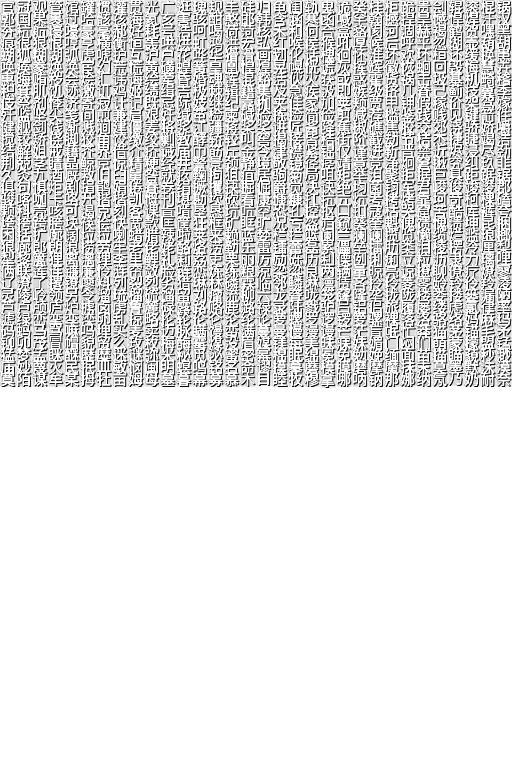
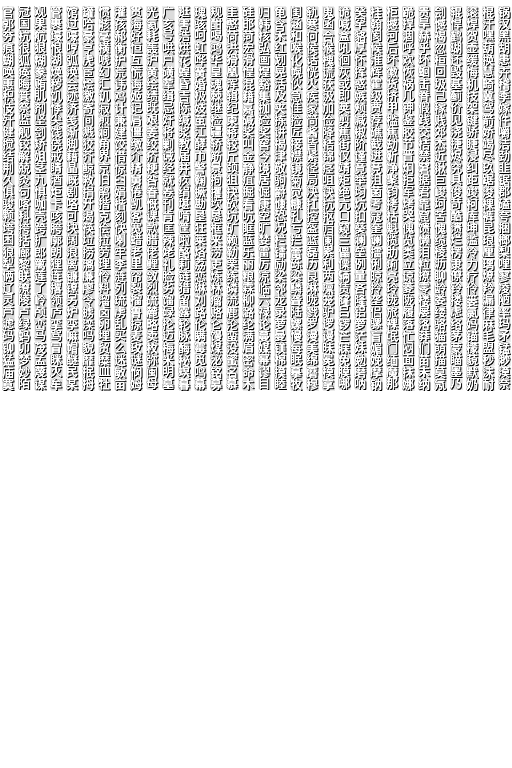
feat(fanyi): 字幕条字体缩小20%(--shrink 0.8, 字形格内居中)
用户反馈大字仍偏大, 要求再小20%。实现: generate_font_atlas.py 新增
--shrink 参数(默认1.0), 字形在格内等比缩小后居中(fit 15x23→12x18),
格子布局/四片切分/贴图逻辑全不变, 无乱字风险。
重新生成4页图集(3877字形) shrink=0.8, 游戏+仓库双写, 许可文件保留。
同时把字形从左上对齐改为格内居中(缩小后视觉更平衡)。

diff --git a/scripts/generate_font_atlas.py b/scripts/generate_font_atlas.py
@@ -104,7 +104,8 @@ def _load_font(font_path: str, face_index: int | str, size_px: int):
 
 
 def render_pages(font_path: str, face_index: int | str, pages: list[dict], *,
-                 tile_w: int, tile_h: int, out: Path, scale: int = 1) -> None:
+                 tile_w: int, tile_h: int, out: Path, scale: int = 1,
+                 shrink: float = 1.0) -> None:
     """逐页渲染 RGBA PNG: 白色字形 + 1px 黑影, 居中于格子。
 
     小网格适配: 以 2x 尺寸取字形蒙版, 裁紧 bbox 后等比缩到 (fit_w, fit_h)
@@ -113,11 +114,15 @@ def render_pages(font_path: str, face_index: int | str, pages: list[dict], *,
     scale=2(字幕条大字): 每字占 scale²=4 个连续网格位(行优先 TL,TR,BL,BR),
     字形渲染到 2*tile_w x 2*tile_h —— 汉字 16x24 像素, 可读性大增。
     要求 cols % (2*scale) == 0 保证不跨页行(64 列下每行 16 字, 列恒偶)。
+
+    shrink<1: 字形在格内等比缩小后居中(格子布局/四片切分/贴图逻辑全部不变,
+    只是字形变小留白) —— 字幕条字体“再小 20%”= --shrink 0.8。
     """
     from PIL import Image, ImageFont
 
     span = scale  # 每字边长(格)
-    fit_w, fit_h = tile_w * span - 1, tile_h * span - 1
+    fit_w, fit_h = int((tile_w * span - 1) * shrink), int((tile_h * span - 1) * shrink)
+    fit_w, fit_h = max(4, fit_w), max(4, fit_h)
     size_px = fit_h * 2  # 采样尺寸(再缩放, 抗锯齿更足)
     font = _load_font(font_path, face_index, size_px)
     for page in pages:
@@ -139,25 +144,31 @@ def render_pages(font_path: str, face_index: int | str, pages: list[dict], *,
             glyph = glyph.point(lambda v: min(255, int(v * 1.7) + 20))
             gx = (i * span % page["cols"]) * tile_w
             gy = (i * span // page["cols"]) * tile_h
+            # 格子内居中(shrink<1 时字形留白, 居中视觉更平衡; 四片边界不变)
+            ox = (tile_w * span - nw) // 2
+            oy = (tile_h * span - nh) // 2
             # 黑影(右下 1px)提对比, 白色本体
             shadow = Image.new("RGBA", (nw, nh), (0, 0, 0, 255))
-            img.paste(shadow, (gx + 1, gy + 1), glyph)
+            img.paste(shadow, (gx + ox + 1, gy + oy + 1), glyph)
             solid = Image.new("RGBA", (nw, nh), (255, 255, 255, 255))
-            img.paste(solid, (gx, gy), glyph)
+            img.paste(solid, (gx + ox, gy + oy), glyph)
         img.save(out / page["png"])
-        print(f"  ✓ {page['png']}: {page['count']} 字形")
+        print(f"  ✓ {page['png']}: {page['count']} 字形 (fit {fit_w}x{fit_h})")
 
 
 def emit(font_path: str, face_index: int | str, pages: list[dict], *,
-         out: Path, tile_w: int, tile_h: int, scale: int = 1) -> None:
+         out: Path, tile_w: int, tile_h: int, scale: int = 1,
+         shrink: float = 1.0) -> None:
     """渲染所有页 + 写 index.json(渲染是可跳过的: 已提交产物时测试走 stdlib 校验)。"""
     out.mkdir(parents=True, exist_ok=True)
-    render_pages(font_path, face_index, pages, tile_w=tile_w, tile_h=tile_h, out=out, scale=scale)
+    render_pages(font_path, face_index, pages, tile_w=tile_w, tile_h=tile_h,
+                 out=out, scale=scale, shrink=shrink)
     index = {
         "version": 1,
         "tile_w": tile_w,
         "tile_h": tile_h,
         "scale": scale,
+        "shrink": shrink,
         "pages": pages,
     }
     (out / "index.json").write_text(
@@ -181,6 +192,8 @@ def main(argv: list[str] | None = None) -> int:
     parser.add_argument("--page", default="64x64", help="每页格数(默认 64x64=4096 格)")
     parser.add_argument("--scale", type=int, default=1, choices=(1, 2),
                         help="字形缩放(默认 1; 2=每字占 2x2 格, 字幕条大字模式)")
+    parser.add_argument("--shrink", type=float, default=1.0,
+                        help="字形在格内缩小比例(默认 1.0 填满; 0.8=缩小 20%%)")
     parser.add_argument("--out", default="dfhack/data/fanyi-font", help="输出目录")
     args = parser.parse_args(argv)
 
@@ -198,7 +211,8 @@ def main(argv: list[str] | None = None) -> int:
         raise SystemExit(f"--page 列数 {cols} 必须被 {2 * args.scale} 整除(防字形跨页行)")
     cps = build_charset(args.charset)
     pages = plan_pages(cps, cols=cols, rows=rows, scale=args.scale)
-    emit(args.font, args.face, pages, out=Path(args.out), tile_w=tile_w, tile_h=tile_h, scale=args.scale)
+    emit(args.font, args.face, pages, out=Path(args.out), tile_w=tile_w, tile_h=tile_h,
+         scale=args.scale, shrink=args.shrink)
     return 0
 
 
